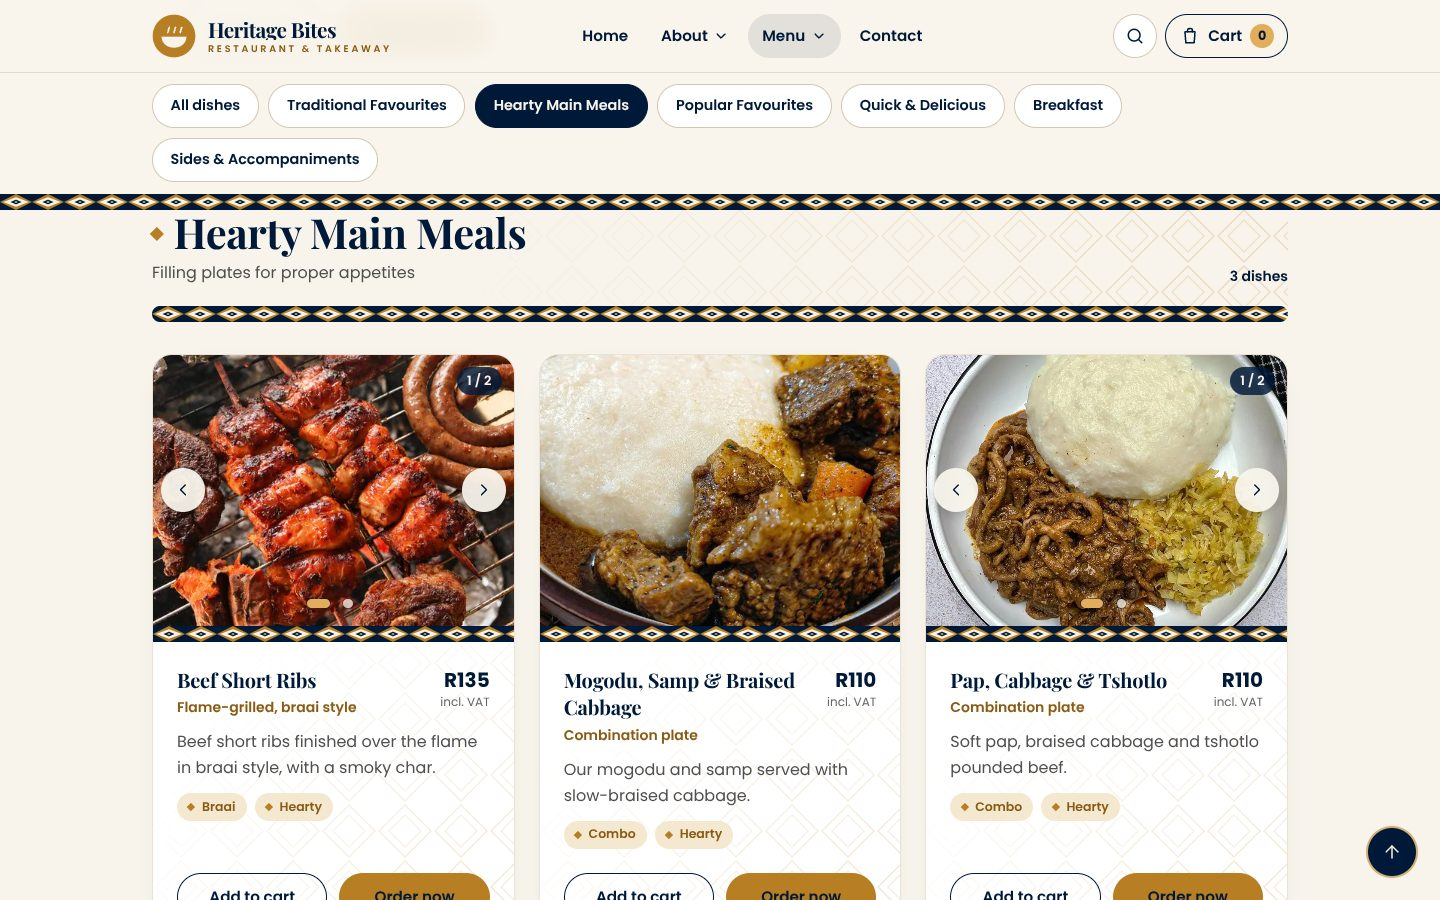
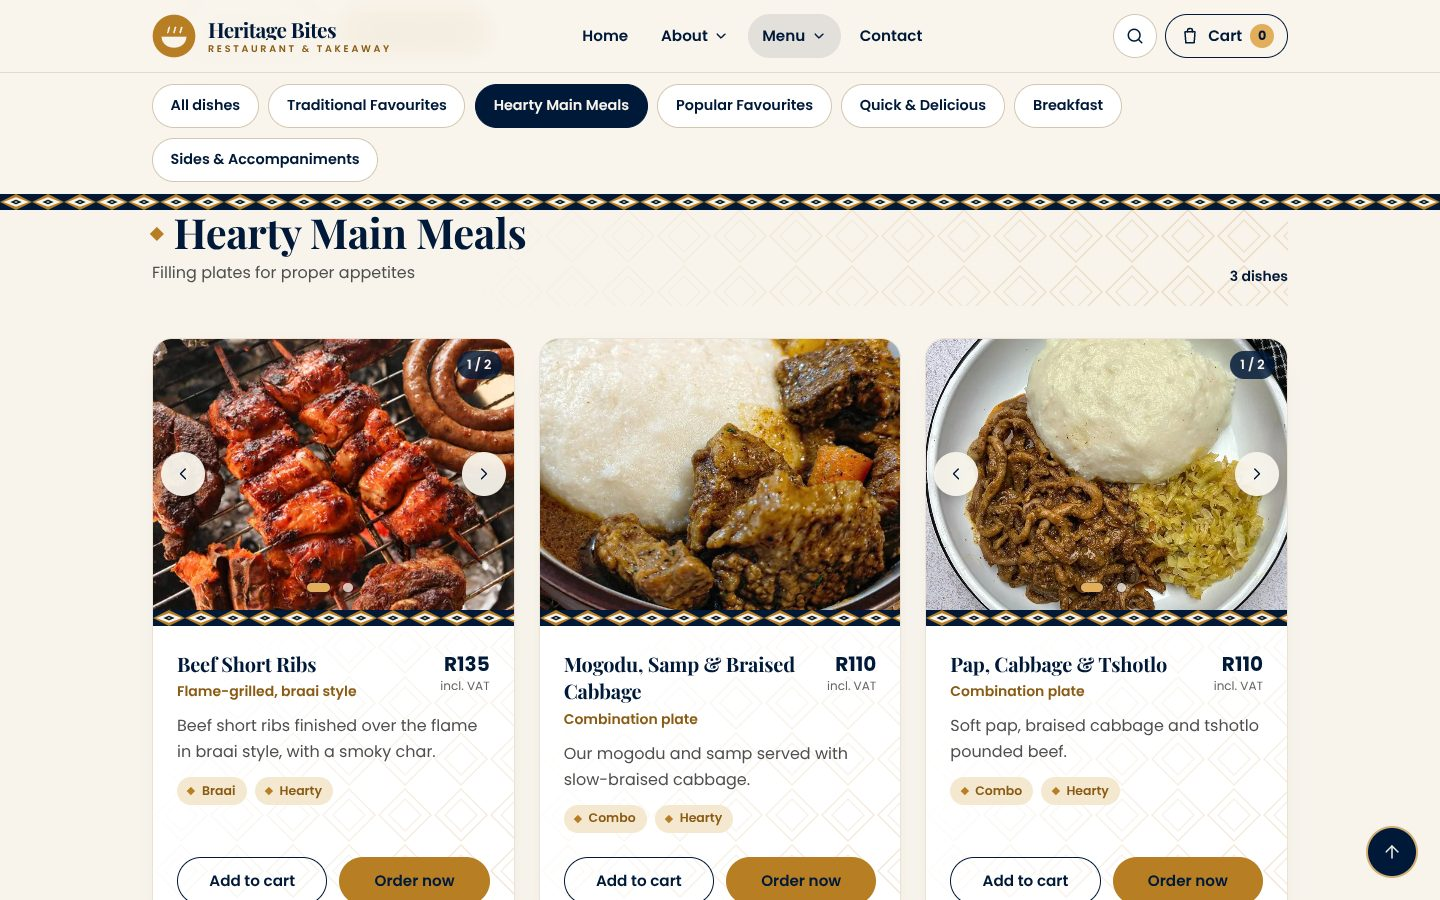
Remove the horizontal strips under menu category headings
- The beaded strip that ran under each category heading (for example Popular Favourites) is removed.
- Kept: the strip under dish and specials photos, the beaded edge of the sticky category bar, the footer band, and the hero and section zigzags.
- Browser check now asserts no strip under any heading and one strip per dish photo. Review screenshots regenerated.

Changed region(s): [[0.0938, 0.3422, 0.9062, 1.0], [0.6562, 0.9333, 0.9062, 1.0], [0.125, 0.9333, 0.3438, 1.0]]

diff --git a/components/menu/MenuBrowser.tsx b/components/menu/MenuBrowser.tsx
@@ -176,7 +176,6 @@ export function MenuBrowser({ categories }: { categories: MenuCategory[] }) {
                 {category.items.length} {category.items.length === 1 ? 'dish' : 'dishes'}
               </p>
             </header>
-            <div aria-hidden="true" className="kasi-strip rounded-full" />
             <div className="mt-8 grid gap-6 sm:grid-cols-2 xl:grid-cols-3">
               {category.items.map((item, index) => (
                 <ProductCard key={item.id} item={item} eager={index === 0} />

diff --git a/README.md b/README.md
@@ -60,7 +60,7 @@ The home page has no events, office lunch or table booking offer, and no separat
 - Categories and dishes are in `lib/seed-data.ts`: six categories (as on heritagebites.co.za) and 20 dishes. Each dish has one to four photos.
 - Every product card has a photo carousel with arrows, dots, a counter, swipe and arrow keys. Each dot shows its own photo.
 - The photos are web photos and must be replaced before launch. See `docs/IMAGE_CREDITS.md`.
-- Heritage vectors: one motif set, drawn in CSS and SVG (see `app/globals.css`), so no image files are needed. Every hero (home, About, Menu, Specials, Contact, checkout, search, privacy and terms) has the diamond lattice on the right and the ochre zigzag along the bottom edge. The menu adds a faint lattice to the filter bar, to each category heading (led by a small ochre diamond) and to the corner of each dish card. Beaded strips run under category headings, dish photos, specials photos and the sticky category bar.
+- Heritage vectors: one motif set, drawn in CSS and SVG (see `app/globals.css`), so no image files are needed. Every hero (home, About, Menu, Specials, Contact, checkout, search, privacy and terms) has the diamond lattice on the right and the ochre zigzag along the bottom edge. The menu adds a faint lattice to the filter bar, to each category heading (led by a small ochre diamond) and to the corner of each dish card. Beaded strips run under dish photos, specials photos and the sticky category bar. Category headings have no strip under them.
 
 ## Ordering and payments
 
